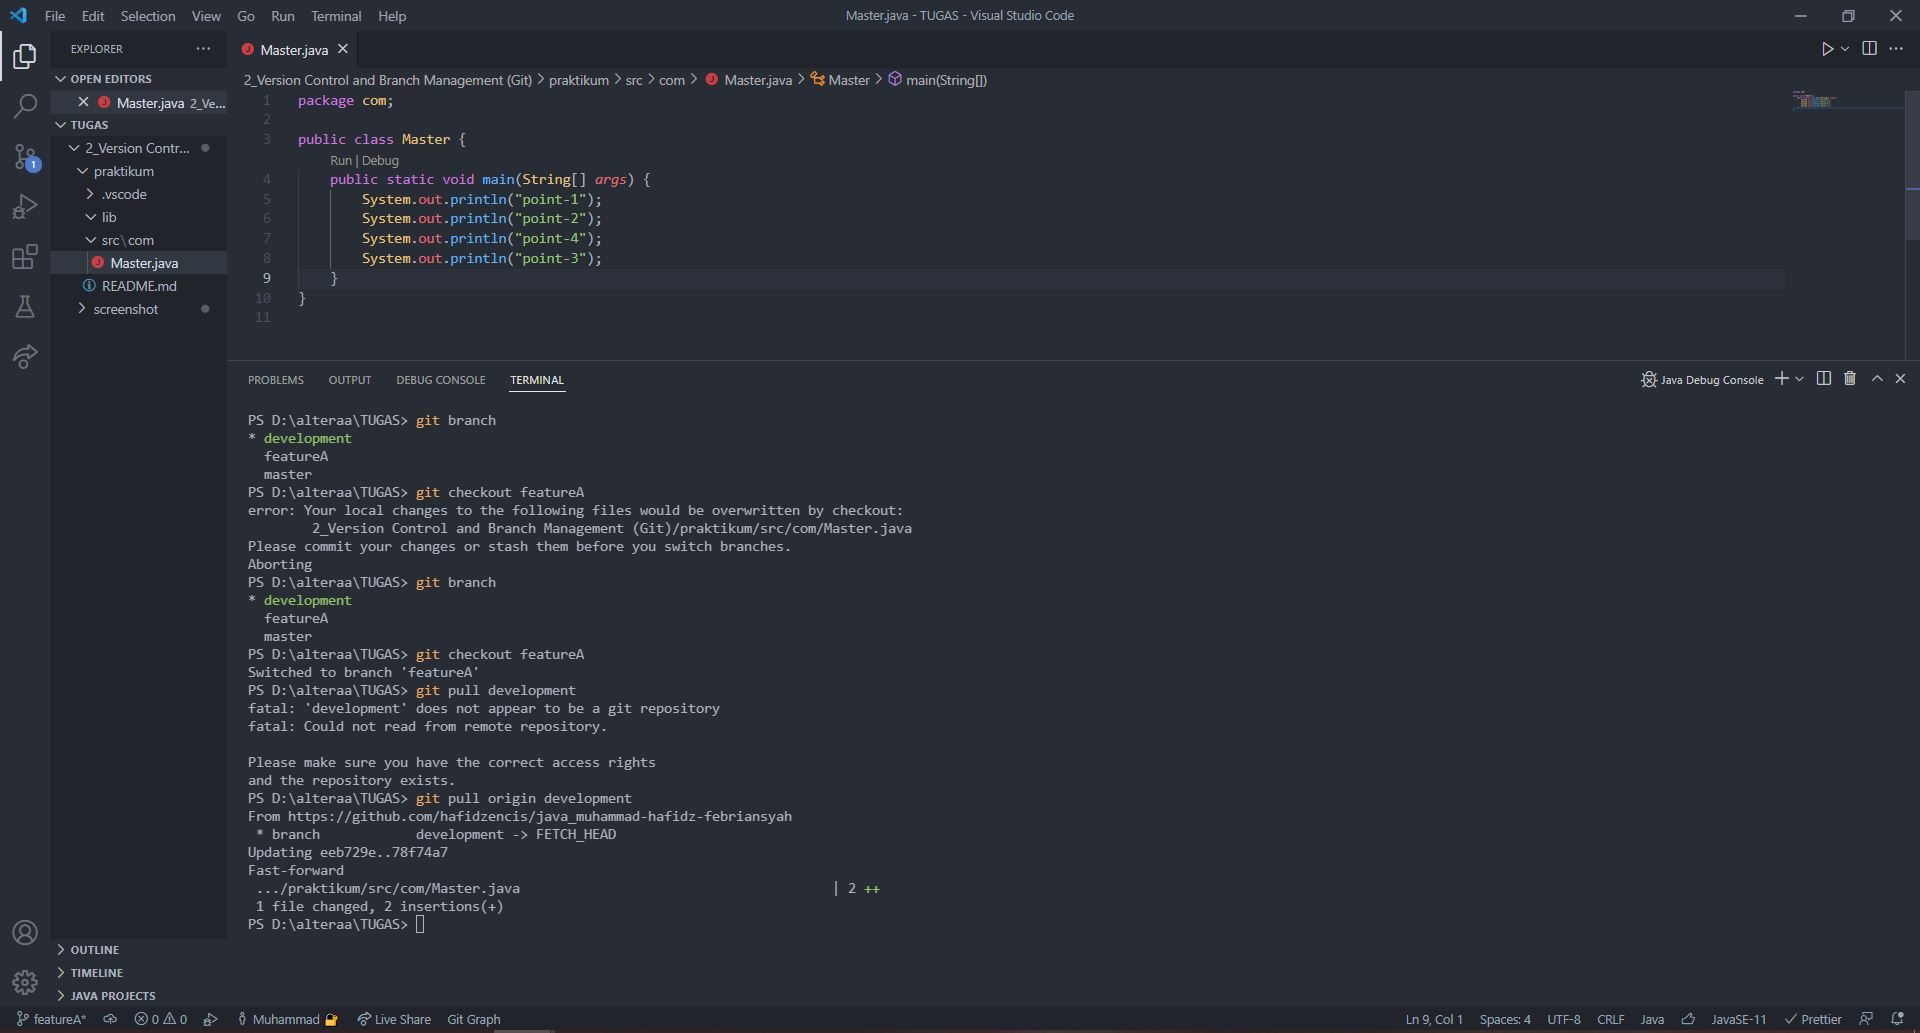
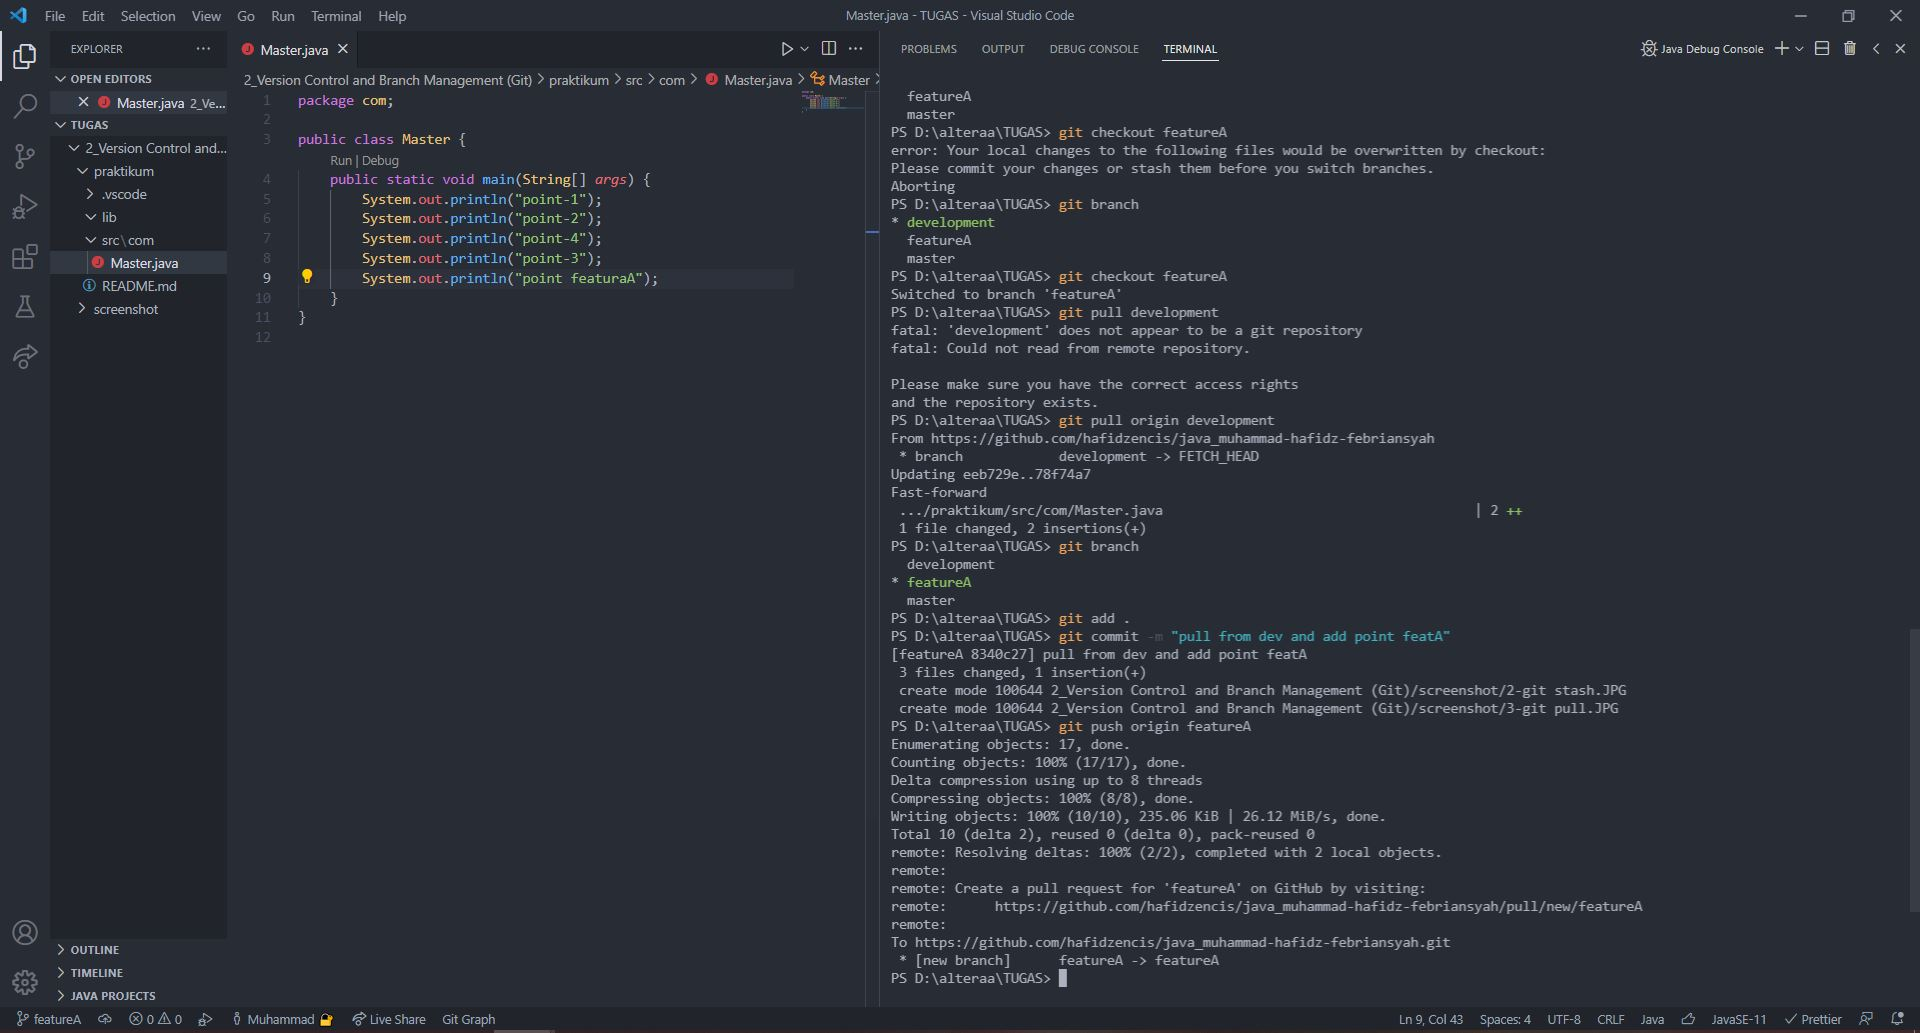
adding point featureB

diff --git a/2_Version Control and Branch Management (Git)/praktikum/src/com/Master.java b/2_Version Control and Branch Management (Git)/praktikum/src/com/Master.java
@@ -6,6 +6,6 @@ public class Master {
         System.out.println("point-2");
         System.out.println("point-4");
         System.out.println("point-3");
-        System.out.println("point featuraA");
+        System.out.println("point featuraB");
     }
 }
